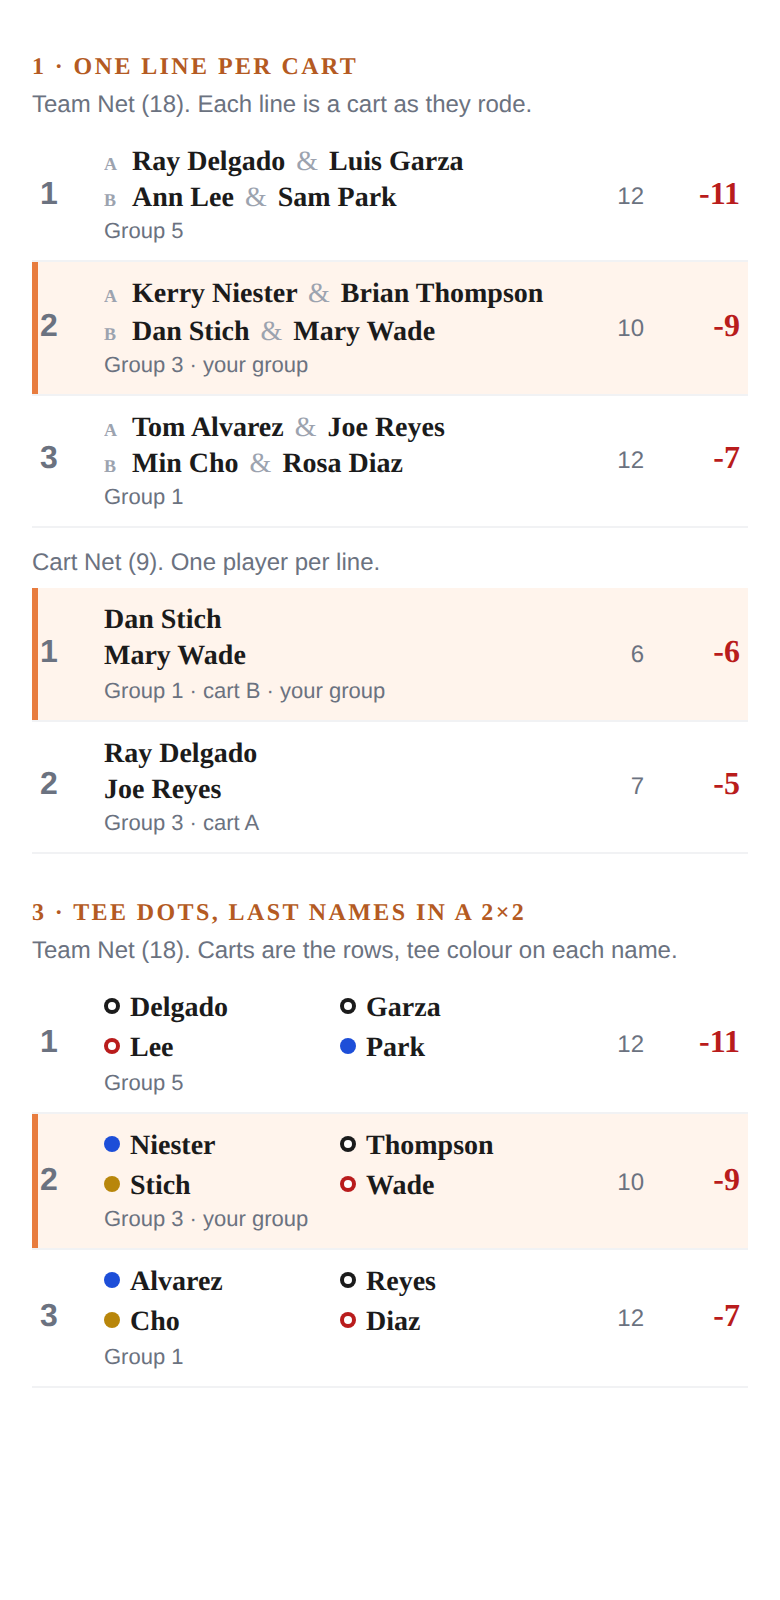
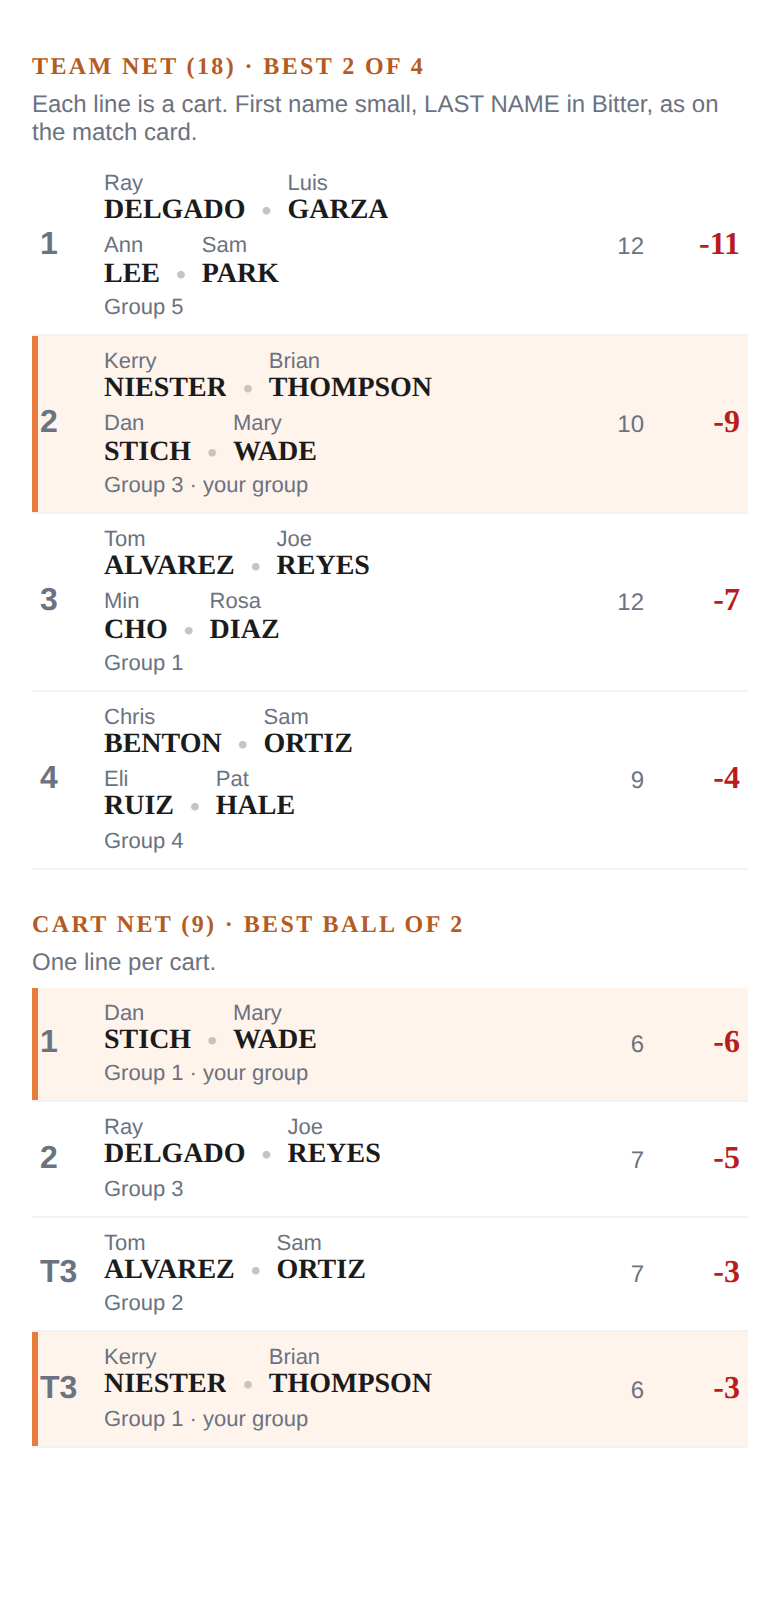
Leaderboard mockup: team names as match-card style names, one line per cart, bullet separator
Claude-Session: https://claude.ai/code/session_01PeGTnLppc6bpJPrSmUWsVP

diff --git a/transaction-tracker/docs/claude/mockups/leaderboard-team-names.html b/transaction-tracker/docs/claude/mockups/leaderboard-team-names.html
@@ -4,35 +4,35 @@ body{margin:0;font-family:'Helvetica Neue',Arial,sans-serif;color:#1B1B1B;backgr
 h2{font:700 12px 'Helvetica Neue';letter-spacing:1.2px;color:#B45A22;text-transform:uppercase;margin:14px 0 4px}
 .sub{font-size:12px;color:#6B7280;margin-bottom:6px}
 table{width:100%;border-collapse:collapse}
-td{padding:8px 4px;border-bottom:1px solid #F1F2F4;vertical-align:middle}
+td{padding:7px 4px;border-bottom:1px solid #F1F2F4;vertical-align:middle}
 td.pos{width:24px;color:#6B7280;font-weight:700}
-td.th{width:36px;text-align:right;color:#6B7280;font-size:12px}
+td.th{width:34px;text-align:right;color:#6B7280;font-size:12px}
 td.tp{width:40px;text-align:right;font:700 16px Bitter,Georgia,serif;color:#B91C1C}
 tr.me td{background:#FFF4EC} tr.me td.pos{box-shadow:inset 3px 0 0 #E87C3E}
-.cart{font:700 14px/1.3 Bitter,Georgia,serif;white-space:nowrap;overflow:hidden;text-overflow:ellipsis}
-.cart .amp{color:#9CA3AF;font-weight:400;margin:0 2px}
-.cart .c{display:inline-block;width:14px;font:700 9px 'Helvetica Neue';color:#9CA3AF}
-.meta{font-size:11px;color:#6B7280;margin-top:1px}
-.grid{display:grid;grid-template-columns:1fr 1fr;column-gap:10px;row-gap:1px;font:700 14px/1.35 Bitter,Georgia,serif}
-.grid span{white-space:nowrap;overflow:hidden;text-overflow:ellipsis}
-.d{display:inline-block;width:8px;height:8px;border-radius:50%;margin-right:5px;vertical-align:1px}
-.ring{background:#fff!important;box-shadow:inset 0 0 0 2px currentColor}
+.cart{display:flex;align-items:center;gap:8px;min-width:0}
+.cart + .cart{margin-top:4px}
+.p{display:flex;flex-direction:column;min-width:0}
+.p em{font-style:normal;font-size:11px;line-height:1.1;color:#6B7280}
+.p b{font:700 14px/1.1 Bitter,Georgia,serif;text-transform:uppercase;white-space:nowrap;overflow:hidden;text-overflow:ellipsis}
+.dot{color:#C4C4C4;font-size:14px;align-self:flex-end;line-height:1.1}
+.meta{font-size:11px;color:#6B7280;margin-top:3px}
 </style></head><body><div class="w">
-<h2>1 · One line per cart</h2><div class="sub">Team Net (18). Each line is a cart as they rode.</div>
-<table>
-<tr><td class="pos">1</td><td><div class="cart"><span class="c">A</span>Ray Delgado <span class="amp">&amp;</span> Luis Garza</div><div class="cart"><span class="c">B</span>Ann Lee <span class="amp">&amp;</span> Sam Park</div><div class="meta">Group 5</div></td><td class="th">12</td><td class="tp">-11</td></tr>
-<tr class="me"><td class="pos">2</td><td><div class="cart"><span class="c">A</span>Kerry Niester <span class="amp">&amp;</span> Brian Thompson</div><div class="cart"><span class="c">B</span>Dan Stich <span class="amp">&amp;</span> Mary Wade</div><div class="meta">Group 3 · your group</div></td><td class="th">10</td><td class="tp">-9</td></tr>
-<tr><td class="pos">3</td><td><div class="cart"><span class="c">A</span>Tom Alvarez <span class="amp">&amp;</span> Joe Reyes</div><div class="cart"><span class="c">B</span>Min Cho <span class="amp">&amp;</span> Rosa Diaz</div><div class="meta">Group 1</div></td><td class="th">12</td><td class="tp">-7</td></tr>
-</table>
-<div class="sub" style="margin-top:10px">Cart Net (9). One player per line.</div>
-<table>
-<tr class="me"><td class="pos">1</td><td><div class="cart">Dan Stich</div><div class="cart">Mary Wade</div><div class="meta">Group 1 · cart B · your group</div></td><td class="th">6</td><td class="tp">-6</td></tr>
-<tr><td class="pos">2</td><td><div class="cart">Ray Delgado</div><div class="cart">Joe Reyes</div><div class="meta">Group 3 · cart A</div></td><td class="th">7</td><td class="tp">-5</td></tr>
-</table>
-<h2 style="margin-top:22px">3 · Tee dots, last names in a 2×2</h2><div class="sub">Team Net (18). Carts are the rows, tee colour on each name.</div>
-<table>
-<tr><td class="pos">1</td><td><div class="grid"><span><i class="d ring" style="color:#1B1B1B"></i>Delgado</span><span><i class="d ring" style="color:#1B1B1B"></i>Garza</span><span><i class="d ring" style="color:#B91C1C"></i>Lee</span><span><i class="d" style="background:#1D4ED8"></i>Park</span></div><div class="meta">Group 5</div></td><td class="th">12</td><td class="tp">-11</td></tr>
-<tr class="me"><td class="pos">2</td><td><div class="grid"><span><i class="d" style="background:#1D4ED8"></i>Niester</span><span><i class="d ring" style="color:#1B1B1B"></i>Thompson</span><span><i class="d" style="background:#B8860B"></i>Stich</span><span><i class="d ring" style="color:#B91C1C"></i>Wade</span></div><div class="meta">Group 3 · your group</div></td><td class="th">10</td><td class="tp">-9</td></tr>
-<tr><td class="pos">3</td><td><div class="grid"><span><i class="d" style="background:#1D4ED8"></i>Alvarez</span><span><i class="d ring" style="color:#1B1B1B"></i>Reyes</span><span><i class="d" style="background:#B8860B"></i>Cho</span><span><i class="d ring" style="color:#B91C1C"></i>Diaz</span></div><div class="meta">Group 1</div></td><td class="th">12</td><td class="tp">-7</td></tr>
-</table>
-</div></body></html>
+<h2>Team Net (18) · best 2 of 4</h2><div class="sub">Each line is a cart. First name small, LAST NAME in Bitter, as on the match card.</div>
+<table id="t18"></table>
+<h2 style="margin-top:20px">Cart Net (9) · best ball of 2</h2><div class="sub">One line per cart.</div>
+<table id="t9"></table>
+</div><script>
+const P=(f,l)=>`<span class="p"><em>${f}</em><b>${l}</b></span>`;
+const cart=(a,b)=>`<div class="cart">${P(...a)}<span class="dot">•</span>${P(...b)}</div>`;
+const row=(pos,carts,meta,thru,net,me)=>`<tr class="${me?"me":""}"><td class="pos">${pos}</td><td>${carts.map(c=>cart(...c)).join("")}<div class="meta">${meta}</div></td><td class="th">${thru}</td><td class="tp">${net}</td></tr>`;
+document.getElementById("t18").innerHTML=[
+ row(1,[[["Ray","Delgado"],["Luis","Garza"]],[["Ann","Lee"],["Sam","Park"]]],"Group 5",12,-11),
+ row(2,[[["Kerry","Niester"],["Brian","Thompson"]],[["Dan","Stich"],["Mary","Wade"]]],"Group 3 · your group",10,-9,1),
+ row(3,[[["Tom","Alvarez"],["Joe","Reyes"]],[["Min","Cho"],["Rosa","Diaz"]]],"Group 1",12,-7),
+ row(4,[[["Chris","Benton"],["Sam","Ortiz"]],[["Eli","Ruiz"],["Pat","Hale"]]],"Group 4",9,-4)].join("");
+document.getElementById("t9").innerHTML=[
+ row(1,[[["Dan","Stich"],["Mary","Wade"]]],"Group 1 · your group",6,-6,1),
+ row(2,[[["Ray","Delgado"],["Joe","Reyes"]]],"Group 3",7,-5),
+ row("T3",[[["Tom","Alvarez"],["Sam","Ortiz"]]],"Group 2",7,-3),
+ row("T3",[[["Kerry","Niester"],["Brian","Thompson"]]],"Group 1 · your group",6,-3,1)].join("");
+</script></body></html>
